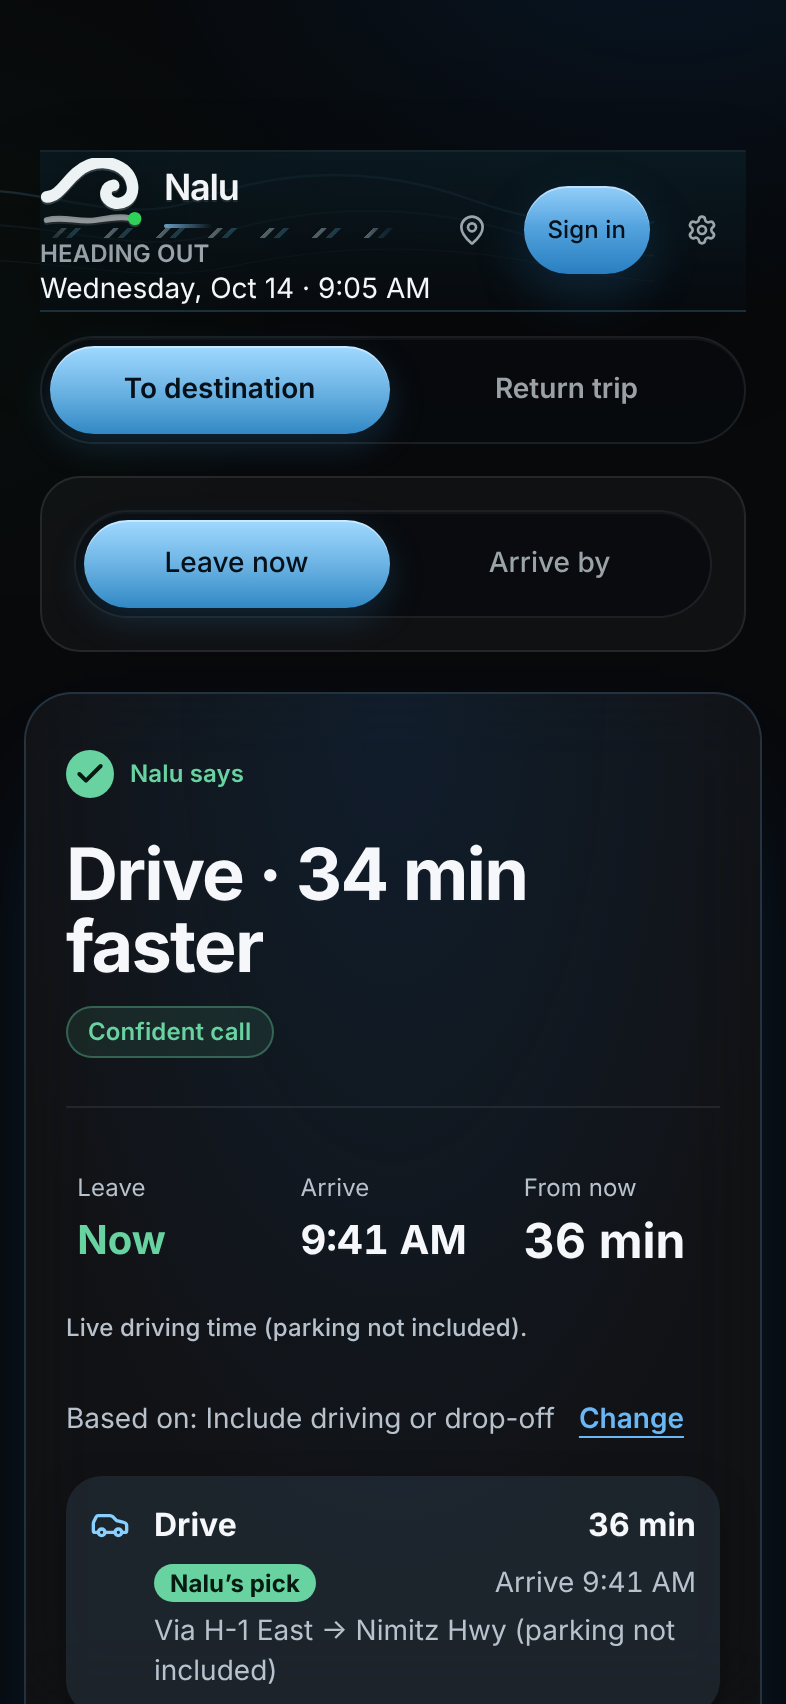
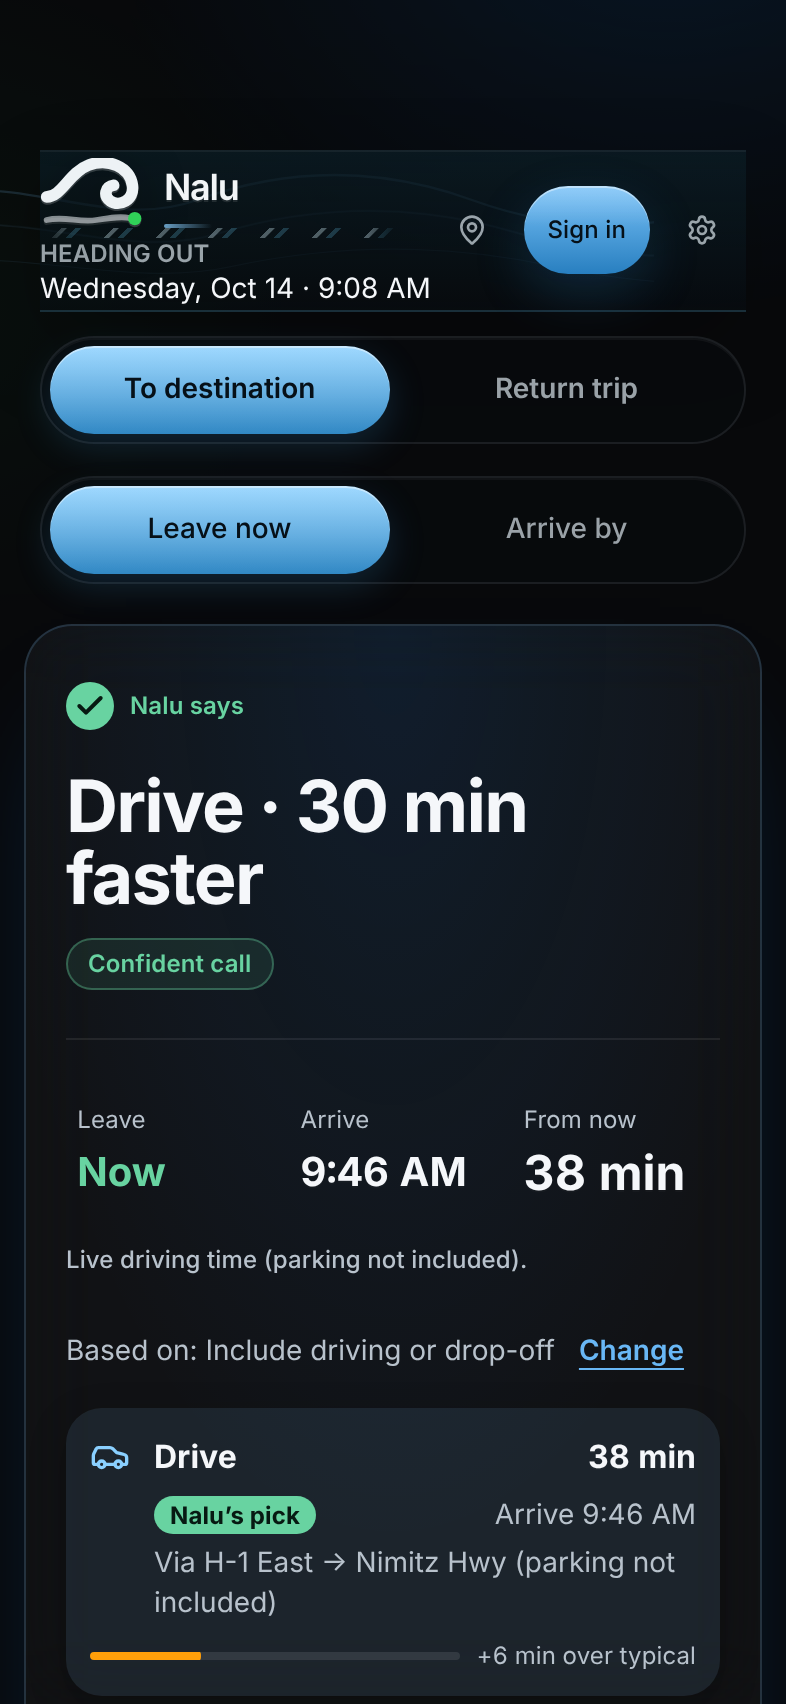
Commute fixes: screenshot, passdown, inbox
Claude-Session: https://claude.ai/code/session_016uJ7VtqrsMRgeSzPmAUdgB

diff --git a/docs/passdown/premium.md b/docs/passdown/premium.md
@@ -27,6 +27,7 @@ Last updated: 2026-10-14 (home redesign preview ready). Keep ≤ 60 lines; see R
 - Look only: `src/commute-home-look.css` (scoped to `main.nh-commute`; registered in __root.tsx) gives the answer screen flat hairline cards, the wave motif (`Waves` at top), a hero glow (green when Skyline is the pick) and safe-area sides. Rows, pick, wording and M1–M18 motion untouched. Sticky bars (en-route/passed-stop) and `.commitment-panel` (live tint) deliberately excluded after transit-accuracy's High/Medium.
 - Live check Kapolei→downtown and ʻEwa→Merchant: Drive/Skyline/Bus rows + pick intact, 0 errors, no sideways scroll. Shots `docs/experience/commute-redesign/` (before-/after-), script `scripts/diag/commute-shots.mjs`.
 - OPEN: Airport→Waikīkī shows "Can't check traffic / Skyline right now" (Bus works) both before and after my change (CSS-only, so not mine). Needs a look by MAIN/Watchman (transit DB or TomTom timeout?).
+- Oct 14 fixes after Josh's 8:29 feedback (live): (1) rain (M9) removed from the trip screen; (2) the empty band above the header was the wave SVG in the page flow — `main.bg-page-gradient > *{position:relative}` in liquid-titanium.css beat `.nh-waves{position:absolute}`, and home.css was not loaded on the trip route; now home.css is imported in index.tsx and `main.nh-commute > .nh-waves` is absolute (header at 75px with a 59px inset = one inset only); (3) lag: rain layer gone, backdrop blurs flattened; headless 4x CPU throttle: 0 long tasks, p95 frame 17 ms (not a phone measurement); (4) traffic bar (M7, "+N min over typical") is intact — seen live, amber +6; the likely culprits were the see-through sticky en-route bar and flattened tinted cards, both fixed; (5) no box around Leave now/Arrive by. The "Dev" button is the fixed DevPanel overlay (Josh-only), untouched. Reviewers not re-run after these fixes (usage).
 - Not checked: en-route/Live-trip screens in the new look (need a real trip); reduced-motion shots of the commute page.
 
 ## Don't touch

diff --git a/docs/passdown/inbox.md b/docs/passdown/inbox.md
@@ -1,6 +1,7 @@
 # Inbox — agent reports to NALU MAIN (newest first, ≤ 60 lines)
 Written by the inbox routine (trig_018dVqisHDihRPYq9mBE1qtP) when an agent calls fire_trigger. NALU MAIN reads this at every wake. One line: date HST · agent · report · action.
 
+- 2026-10-14 · Sonnet build · Commute page fixed after Josh's feedback: rain removed, empty top band gone (wave was in the page flow; header now 75px with a 59px inset), cards no longer see-through/untinted, no box around Leave now switch; traffic bar confirmed present live. Headless 4x-throttle: 0 long tasks. Not run: mobile-design/performance re-review on a phone.
 - 2026-10-14 · Sonnet build · Commute page now in the home look (CSS-only, rows/pick/motion untouched), live-checked Kapolei + ʻEwa; Browse perf + security reviews clean. FOR MAIN: Airport→Waikīkī live shows Drive and Skyline "Can't check … right now" (before and after my change; Bus OK) — please investigate. En-route/Live screens in new look not verified.
 - 2026-10-14 · Sonnet build · Top bars (home, Browse) now pad by env(safe-area-inset-top/left/right); verified live at 393×852 with a simulated 59px inset (bar starts at ≥59px). Commute page already had a top inset; its style not redesigned yet. Commute-page redesign NOT started: needs Josh's go (earlier brief said stay off the answer screen).
 - 2026-10-14 · Browse redesign (Sonnet build) · Browse now matches the new home look, live and checked at 390×844 (0 errors); walk/drive-time estimates removed per Oct 14 rule; no data/logic change. Not run: performance, security-keys. Details in premium.md.
